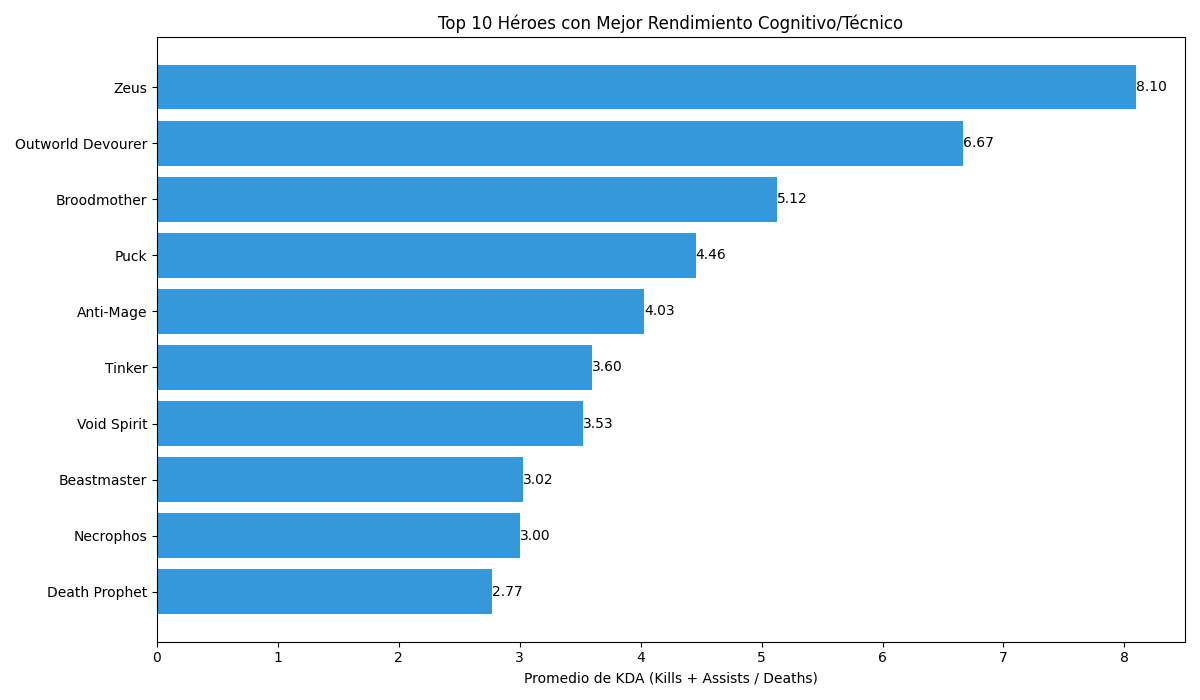
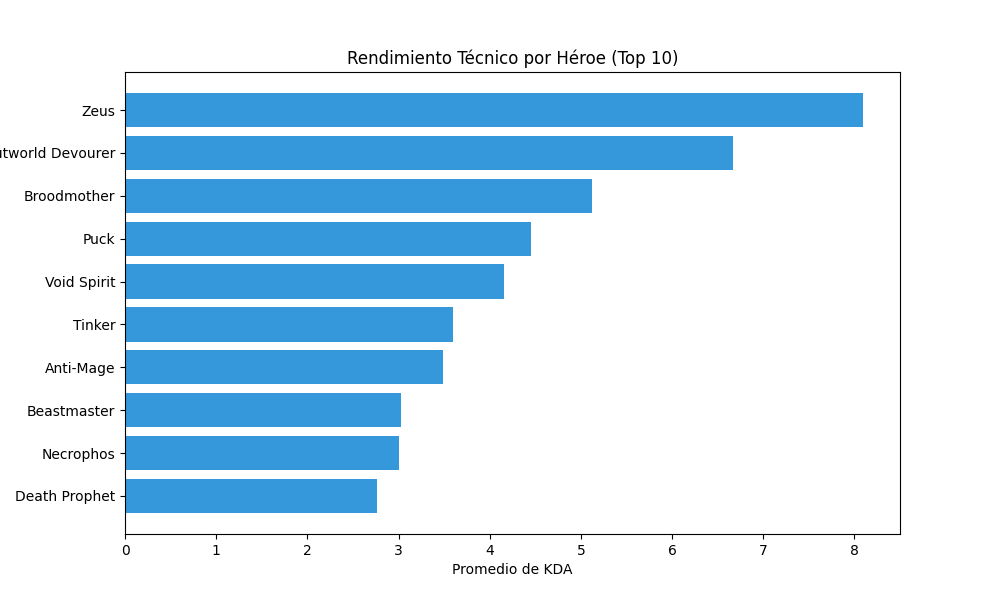
Feature: Full ETL Pipeline con Upsert logic y profesional logging

Changed region(s): [[0.0, 0.09, 0.992, 0.99], [0.124, 0.0, 0.992, 0.06]]

diff --git a/src/pipeline/visualizer.py b/src/pipeline/visualizer.py
@@ -1,39 +1,25 @@
 import pandas as pd
 import matplotlib.pyplot as plt
 from sqlalchemy import create_engine
+import logging
 
 def generate_report():
-    print("📈 Extrayendo datos de SQL para el reporte...")
-    # Conexión nativa a tu base de datos local
-    engine = create_engine('postgresql://nexus@localhost:5432/dota2_meta')
-    
-    # Query de agregación: Rendimiento por Héroe
-    query = """
-    SELECT hero_name, AVG(kda) as avg_kda, COUNT(*) as games_played
-    FROM matches 
-    GROUP BY hero_name 
-    HAVING COUNT(*) >= 1
-    ORDER BY avg_kda DESC 
-    LIMIT 10
-    """
-    df = pd.read_sql(query, engine)
+    logging.info("📈 Generando reporte visual de rendimiento...")
+    try:
+        engine = create_engine('postgresql://nexus@localhost:5432/dota2_meta')
+        query = "SELECT hero_name, AVG(kda) as avg_kda FROM matches GROUP BY hero_name ORDER BY avg_kda DESC LIMIT 10"
+        df = pd.read_sql(query, engine)
 
-    # Crear el gráfico de barras horizontales
-    plt.figure(figsize=(12, 7))
-    bars = plt.barh(df['hero_name'], df['avg_kda'], color='#3498db')
-    plt.xlabel('Promedio de KDA (Kills + Assists / Deaths)')
-    plt.title('Top 10 Héroes con Mejor Rendimiento Cognitivo/Técnico')
-    plt.gca().invert_yaxis() # Los mejores arriba
-    
-    # Añadir etiquetas de valor en las barras
-    for bar in bars:
-        plt.text(bar.get_width(), bar.get_y() + bar.get_height()/2, 
-                 f'{bar.get_width():.2f}', va='center')
-
-    plt.tight_layout()
-    plt.savefig('reporte_rendimiento.png')
-    print("✅ Gráfico 'reporte_rendimiento.png' generado. ¡Listo para la reunión!")
-    plt.show()
-
-if __name__ == "__main__":
-    generate_report()
+        plt.figure(figsize=(10, 6))
+        plt.barh(df['hero_name'], df['avg_kda'], color='#3498db')
+        plt.title('Rendimiento Técnico por Héroe (Top 10)')
+        plt.xlabel('Promedio de KDA')
+        plt.gca().invert_yaxis()
+        
+        plt.savefig('reporte_rendimiento.png')
+        plt.close() # Importante: cierra el plot para no bloquear el pipeline
+        logging.info("✅ Reporte 'reporte_rendimiento.png' exportado con éxito.")
+        return True
+    except Exception as e:
+        logging.error(f"❌ Error en Visualización: {e}")
+        return False

diff --git a/main.py b/main.py
@@ -3,27 +3,48 @@ from src.pipeline.extractor import fetch_dota_data
 from src.pipeline.transformer import process_matches
 from src.pipeline.loader import load_to_db
 from src.pipeline.visualizer import generate_report
+import logging
+import os
+
+# Crear carpeta de logs si no existe
+os.makedirs('logs', exist_ok=True)
+
+logging.basicConfig(
+    level=logging.INFO,
+    format='%(asctime)s - %(levelname)s - [%(filename)s] - %(message)s',
+    handlers=[
+        logging.FileHandler("logs/pipeline.log"), # Guarda en archivo
+        logging.StreamHandler()                  # Muestra en consola (como el logging.info)
+    ]
+)
 
 def run_pipeline():
-    print("🚀 Iniciando Pipeline de Ingeniería de Datos...")
+    logging.info("🚀 Iniciando Pipeline de Ingeniería de Datos...")
     
-    # 1. Extracción
-    if not fetch_dota_data():
-        print("❌ Error en Extracción. Abortando pipeline.")
-        sys.exit(1)
+    try:
+        # 1. Extracción
+        if not fetch_dota_data():
+            logging.error("❌ Error en Extracción. Abortando.")
+            sys.exit(1)
+            
+        # 2. Transformación
+        if not process_matches():
+            logging.error("❌ Error en Transformación. Abortando.")
+            sys.exit(1)
+            
+        # 3. Carga (AHORA CON VALIDACIÓN)
+        if not load_to_db():
+            logging.error("❌ Error en Carga a DB. El reporte no será preciso.")
+            sys.exit(1) # Esto detiene el proceso aquí
         
-    # 2. Transformación
-    if not process_matches():
-        print("❌ Error en Transformación. Abortando pipeline.")
-        sys.exit(1)
+        # 4. Visualización
+        generate_report()
         
-    # 3. Carga
-    load_to_db()
-    
-    # 4. Visualización
-    generate_report()
-    
-    print("✅ Pipeline ejecutado con éxito de extremo a extremo.")
+        logging.info("✅ Pipeline ejecutado con éxito de extremo a extremo.")
 
+    except Exception as e:
+        logging.critical(f"💥 Fallo crítico: {e}")
+        sys.exit(1)
+        
 if __name__ == "__main__":
     run_pipeline()

diff --git a/src/pipeline/loader.py b/src/pipeline/loader.py
@@ -1,29 +1,37 @@
 import pandas as pd
+import logging
 import psycopg2
-from sqlalchemy import create_engine
+from sqlalchemy import create_engine, text
 import os
 from dotenv import load_dotenv
 
 load_dotenv()
 
 def load_to_db():
-    print("🚀 Cargando datos a PostgreSQL...")
-    
+    logging.info("🚀 Iniciando carga incremental (Upsert) en PostgreSQL...")    
     try:
         # 1. Leer el CSV generado en la fase anterior
         df = pd.read_csv('processed_matches.csv')
-        
         # 2. Conectar a PostgreSQL (Asegúrate de que tu usuario sea 'nexus' o el de tu Mac)
         # Estructura: postgresql://usuario:password@localhost:5432/nombre_db
         engine = create_engine('postgresql://nexus@localhost:5432/dota2_meta')
         
-        # 3. Carga incremental (Sustituir por 'append' si quieres acumular datos)
-        df.to_sql('matches', engine, if_exists='replace', index=False)
-        
-        print("✅ ¡Datos persistidos en la tabla 'matches' exitosamente!")
-
+        # Carga a tabla temporal y Upsert manual
+        with engine.begin() as conn:
+            df.to_sql('temp_matches', conn, if_exists='replace', index=False) # Carga a tabla temporal
+            #SQL para insertar solo lo que no existe (evita duplicados)
+            upsert_query = """
+                INSERT INTO matches (match_id, hero_name, kills, deaths, assists, kda, duration, radiant_win, kda_rolling_avg)
+                SELECT match_id, hero_name, kills, deaths, assists, kda, duration, radiant_win, kda_rolling_avg 
+                FROM temp_matches
+                ON CONFLICT (match_id) DO NOTHING;
+                    """
+            conn.execute(text(upsert_query))
+            conn.execute(text("DROP TABLE temp_matches;"))
+        logging.info("✅ Carga finalizada: Base de datos actualizada sin duplicados.")
+        return True
     except Exception as e:
-        print(f"❌ Error al cargar en DB: {e}")
-
+        logging.error(f"❌ Error al cargar en DB: {e}")
+        return False
 if __name__ == "__main__":
     load_to_db()

diff --git a/src/pipeline/transformer.py b/src/pipeline/transformer.py
@@ -1,9 +1,10 @@
 import pandas as pd
 import requests
 import json
+import logging
 
 def process_matches():
-    print("🔄 Iniciando el procesamiento de datos de partidas...")
+    logging.info("🔄 Iniciando el procesamiento de datos de partidas...")
 
     try:
         # Cargar el archivo JSON generado en la Fase 1
@@ -19,7 +20,7 @@ def process_matches():
         df = df[columns]
 
         # 3. Mapeo de Héroes (RF2) - Consumir constantes de la API
-        print("🎭 Obteniendo nombres de héroes...")
+        logging.info("🎭 Obteniendo nombres de héroes...")
         heroes_resp = requests.get("https://api.opendota.com/api/constants/heroes")
         heroes_dict = heroes_resp.json()
         
@@ -41,16 +42,16 @@ def process_matches():
         # 3. IDENTIFICACIÓN DE OUTLIERS (Rendimiento excepcional)
         # Marcamos partidas donde el KDA fue el doble que tu promedio móvil.
         df['is_peak_performance'] = df['kda'] > (df['kda_rolling_avg'] * 2)
-        
-        print("\n📊 Resumen de las últimas partidas:")
-        print(df[['match_id', 'hero_name', 'kills', 'deaths', 'kda']].head())
+
+        logging.info("\n📊 Resumen de las últimas partidas:")
+        logging.info(df[['match_id', 'hero_name', 'kills', 'deaths', 'kda']].head())
         
         # Guardar para la Fase 3 (SQL)
         df.to_csv('processed_matches.csv', index=False)
-        print("\n✅ Archivo 'processed_matches.csv' generado para carga en DB.")
-
+        logging.info("\n✅ Archivo 'processed_matches.csv' generado para carga en DB.")
+        return True
     except Exception as e:
-        print(f"❌ Error en el procesamiento: {e}")
-
+        logging.error(f"❌ Error en el procesamiento: {e}")
+        return False
 if __name__ == "__main__":
     process_matches()

diff --git a/src/pipeline/extractor.py b/src/pipeline/extractor.py
@@ -2,6 +2,8 @@ import requests
 import json
 import os
 from dotenv import load_dotenv
+import logging
+import os
 
 # Cargar variables de entorno (Estándar de Seguridad)
 load_dotenv()
@@ -9,12 +11,12 @@ PLAYER_ID = os.getenv("PLAYER_ID")
 
 def fetch_dota_data():
     if not PLAYER_ID:
-        print("❌ Error: No se encontró PLAYER_ID en el archivo .env")
-        return
+        logging.info("❌ Error: No se encontró PLAYER_ID en el archivo .env")
+        return False # Retorna False para indicar fallo en la extracción
 
     url = f"https://api.opendota.com/api/players/{PLAYER_ID}/matches?limit=50"
     
-    print(f"📡 Conectando con OpenDota para el jugador {PLAYER_ID}...")
+    logging.info(f"📡 Conectando con OpenDota para el jugador {PLAYER_ID}...")
     
     try:
         # Petición a la API
@@ -27,10 +29,11 @@ def fetch_dota_data():
         with open('raw_matches.json', 'w') as f:
             json.dump(matches, f, indent=4)
             
-        print(f"✅ Fase 1 Completada: Se generó 'raw_matches.json' con {len(matches)} partidas.")
-        
+        logging.info(f"✅ Fase 1 Completada: Se generó 'raw_matches.json' con {len(matches)} partidas.")
+        return True # Retorna True para indicar éxito en la extracción
+    
     except requests.exceptions.RequestException as e:
-        print(f"❌ Error durante la implementación (Fase 1): {e}")
-
+        logging.error(f"❌ Error durante la implementación (Fase 1): {e}")
+        return False # Retorna False para indicar fallo en la extracción
 if __name__ == "__main__":
     fetch_dota_data()
